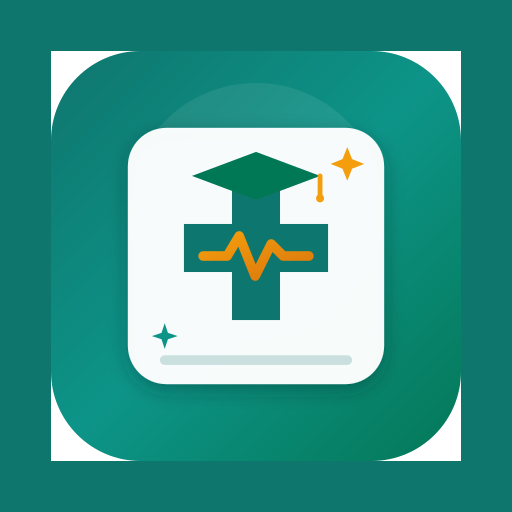
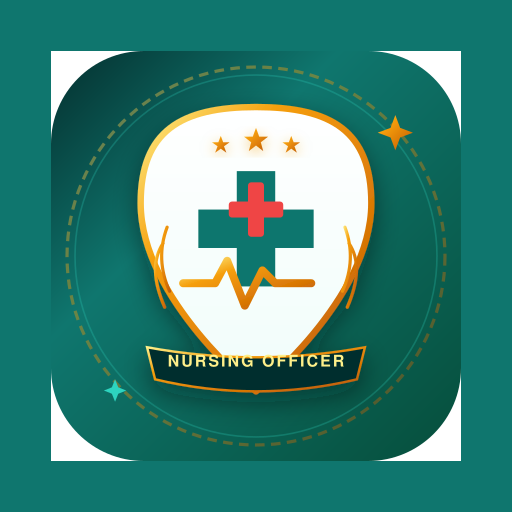
chore: rebrand app to "Nursing Officer"
Update application metadata, icons, and branding configurations to align with the new, concise name "Nursing Officer".

diff --git a/index.html b/index.html
@@ -3,17 +3,17 @@
   <head>
     <meta charset="UTF-8" />
     <meta name="viewport" content="width=device-width, initial-scale=1.0, maximum-scale=5.0, user-scalable=yes" />
-    <title>Nursing Officer Exam Preparation Platform</title>
-    <meta name="description" content="Comprehensive, bilingual (English & Marathi) Nursing Officer exam preparation app with real practice engines, mock tests, clinical case studies, smart weakness analysis, AI Study Coach, and admin CMS." />
+    <title>Nursing Officer</title>
+    <meta name="description" content="Comprehensive Nursing Officer exam preparation app with real practice engines, mock tests, clinical case studies, smart weakness analysis, AI Study Coach, and admin CMS." />
     
     <!-- Open Graph / Meta -->
-    <meta property="og:title" content="Nursing Officer Exam Preparation Platform" />
-    <meta property="og:description" content="Comprehensive, bilingual (English & Marathi) Nursing Officer exam preparation app with real practice engines, mock tests, clinical case studies, smart weakness analysis, AI Study Coach, and admin CMS." />
+    <meta property="og:title" content="Nursing Officer" />
+    <meta property="og:description" content="Comprehensive Nursing Officer exam preparation app with real practice engines, mock tests, clinical case studies, smart weakness analysis, AI Study Coach, and admin CMS." />
     <meta property="og:type" content="website" />
     <meta property="og:image" content="/pwa-512x512.png" />
     <meta name="twitter:card" content="summary_large_image" />
-    <meta name="twitter:title" content="Nursing Officer Exam Preparation Platform" />
-    <meta name="twitter:description" content="Comprehensive bilingual Nursing Officer preparation platform with 18 syllabus subjects, 5 free MCQs per topic, AI coach, and mock tests." />
+    <meta name="twitter:title" content="Nursing Officer" />
+    <meta name="twitter:description" content="Comprehensive Nursing Officer preparation platform with 18 syllabus subjects, free MCQs, AI coach, and mock tests." />
     <meta name="twitter:image" content="/pwa-512x512.png" />
 
     <!-- Web App & Mobile Launcher Meta -->
@@ -21,8 +21,8 @@
     <meta name="mobile-web-app-capable" content="yes" />
     <meta name="apple-mobile-web-app-capable" content="yes" />
     <meta name="apple-mobile-web-app-status-bar-style" content="black-translucent" />
-    <meta name="apple-mobile-web-app-title" content="NursingPrep" />
-    <meta name="application-name" content="NursingPrep" />
+    <meta name="apple-mobile-web-app-title" content="Nursing Officer" />
+    <meta name="application-name" content="Nursing Officer" />
     <meta name="msapplication-TileColor" content="#0f766e" />
 
     <!-- Launcher Icons & Manifest -->

diff --git a/src/components/Header.tsx b/src/components/Header.tsx
@@ -188,12 +188,12 @@ export const Header: React.FC<HeaderProps> = ({ currentTab, setCurrentTab }) => 
             onClick={() => setCurrentTab('dashboard')}
             className="flex items-center gap-3 cursor-pointer select-none"
           >
-            <div className="w-10 h-10 rounded-xl bg-teal-700 flex items-center justify-center text-white shadow-sm font-bold text-xl">
-              ⚕
+            <div className="w-10 h-10 rounded-xl bg-teal-700 flex items-center justify-center text-white shadow-sm font-bold text-xl overflow-hidden border border-teal-600">
+              <img src="/pwa-192x192.png" alt="Nursing Officer Logo" className="w-full h-full object-cover" />
             </div>
             <div>
               <div className="flex items-center gap-2">
-                <span className="font-extrabold text-lg text-slate-900 tracking-tight">NursingPrep</span>
+                <span className="font-extrabold text-lg text-slate-900 tracking-tight">Nursing Officer</span>
                 <span className="bg-teal-100 text-teal-800 text-[11px] font-semibold px-2 py-0.5 rounded-full border border-teal-200">
                   AI PRO
                 </span>

diff --git a/src/components/PWAInstallButton.tsx b/src/components/PWAInstallButton.tsx
@@ -66,15 +66,15 @@ export const PWAInstallButton: React.FC = () => {
             {/* App Launcher Header */}
             <div className="flex items-center gap-4">
               <img
-                src="/icon.svg"
-                alt="NursingPrep Launcher Icon"
-                className="w-16 h-16 rounded-2xl shadow-md border border-slate-100 p-1 bg-teal-900"
+                src="/pwa-192x192.png"
+                alt="Nursing Officer Launcher Icon"
+                className="w-16 h-16 rounded-2xl shadow-md border border-slate-100 p-0.5 bg-teal-900 object-cover"
               />
               <div>
                 <h3 className="text-base font-bold text-slate-900 flex items-center gap-1.5">
-                  <span>NursingPrep App</span>
+                  <span>Nursing Officer</span>
                   <span className="px-2 py-0.5 rounded-full bg-teal-100 text-teal-800 text-[10px] font-extrabold">
-                    PWA Launcher
+                    Official Launcher
                   </span>
                 </h3>
                 <p className="text-xs text-slate-500 mt-0.5">

diff --git a/src/App.tsx b/src/App.tsx
@@ -117,7 +117,7 @@ function AppContent() {
       <footer className="bg-white border-t border-slate-200 py-6 pb-20 md:pb-6 text-xs text-slate-500">
         <div className="max-w-7xl mx-auto px-4 sm:px-6 lg:px-8 flex flex-col sm:flex-row items-center justify-between gap-3">
           <div className="flex items-center gap-2">
-            <span className="font-bold text-slate-800">NursingPrep AI</span>
+            <span className="font-bold text-slate-800">Nursing Officer</span>
             <span>•</span>
             <span>Indian Nursing Council Standard Syllabus Compliant</span>
           </div>

diff --git a/capacitor.config.ts b/capacitor.config.ts
@@ -1,8 +1,8 @@
 import { CapacitorConfig } from '@capacitor/cli';
 
 const config: CapacitorConfig = {
-  appId: 'com.nursingprep.ai.app',
-  appName: 'NursingPrep AI',
+  appId: 'com.nursingofficer.prep.app',
+  appName: 'Nursing Officer',
   webDir: 'dist',
   server: {
     androidScheme: 'https',
